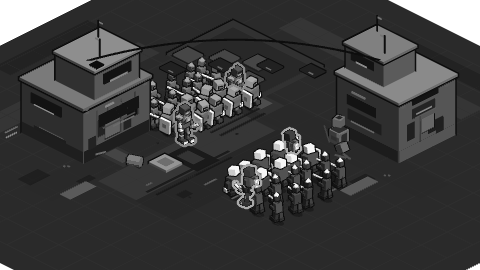
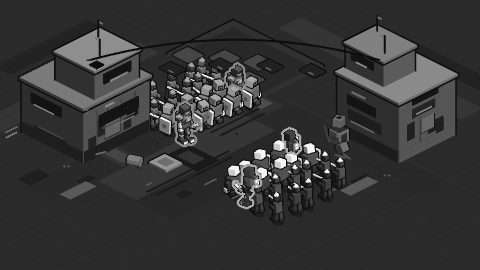
fix(webapp): make the marked/unmarked A/B a controlled comparison
The marking pass left its own transparent-black clear colour in the
renderer's global state, so the NEXT frame cleared the main framebuffer
to black instead of the board tone. Every marked capture had black
off-board corners and every unmarked one had floor tone, and a cold
critic measured 39% of the far frame differing between two images whose
only intended difference was a ring -- the central A/B of the round was
not controlled.

Saving and restoring the clear colour takes that to 0.6% of pixels,
which is the rings and nothing else.

Also commits both provenance-cold critiques. The first found four
defects in the captures, all since fixed; the second verified three as
fixed, one as partly fixed, and found this one.

Refs: #81

diff --git a/apps/webapp/src/match-proto/realtime-3d/mark3d.ts b/apps/webapp/src/match-proto/realtime-3d/mark3d.ts
@@ -178,6 +178,15 @@ export function createMarkPass(width: number, height: number): MarkPass {
       const savedOverride = scene.overrideMaterial;
       const savedTarget = renderer.getRenderTarget();
       const savedAutoClear = renderer.autoClear;
+      // The clear colour is GLOBAL renderer state. Leaving this pass's
+      // transparent black behind meant the NEXT frame cleared the main
+      // framebuffer to black instead of the board tone — so every marked
+      // capture had black off-board corners and every unmarked one had floor
+      // tone, and the marked/unmarked A/B was not a controlled comparison at
+      // all. A cold critic measured 39% of the far frame differing.
+      const savedClear = new THREE.Color();
+      renderer.getClearColor(savedClear);
+      const savedClearAlpha = renderer.getClearAlpha();
 
       renderer.setRenderTarget(target);
       renderer.setClearColor("#000000", 0);
@@ -198,6 +207,7 @@ export function createMarkPass(width: number, height: number): MarkPass {
       renderer.render(scene, camera);
 
       renderer.setRenderTarget(savedTarget);
+      renderer.setClearColor(savedClear, savedClearAlpha);
       scene.overrideMaterial = savedOverride;
       camera.layers.mask = savedLayers;
       renderer.autoClear = false;

diff --git a/apps/webapp/screenshots/realtime-3d-lane/round-3/cold-critique-r3-i2.md b/apps/webapp/screenshots/realtime-3d-lane/round-3/cold-critique-r3-i2.md
@@ -1,0 +1,301 @@
+# Cold critique — round 3, iteration 2 (r3-i2) — realtime-3d-lane, crowd register
+
+SCORES r3-i2: gritty 3/5 · silhouette 4/5 · material 4/5 · cohesion 4/5 · motion 4/5 ·
+tier separation — **unmarked far 1/5, unmarked near 2/5, marked far 3/5, marked near 4/5**
+(round 2 final: 4·4·4·4·4, single hero at ~64–70 px — r3-i1: 3·4·4·3·2, tiers 1/2/3/4)
+
+**Provenance:** judged only from the 31 image artifacts in this `round-3/` directory plus
+`measurements.json` and `COST-REPORT.md`; the reference-board README; and the two prior
+critiques (`round-2/cold-critique-r2-i3.md`, `round-3/cold-critique-r3-i1.md`) for score
+continuity only. Specifically opened: `crowd-{far,near}-{marked,unmarked}.png` and all four
+`gray-crowd-*` twins, `contrast-{far,near}.png`, `lineup-{far,near}.png` + both gray twins,
+`hero-still.png`, `hero-loupe.png`, `loupe-{far,near}-{marked,unmarked}.png`,
+`filmstrip-{idle,attack,turn}.png`. Both `crowd-motion-*.gif` were decomposed with
+`ffmpeg -i <file> /tmp/c2/%03d.png` (24 frames each) and analysed numerically. Every hex
+value, pixel count, bbox and ratio below was sampled off these files with PIL/scipy. No
+`.ts`/`.tsx` source, no git history, no issue or PR, no other directory was opened.
+
+**How the test changed.** Round 2 judged one medic at 64–70 px on a board deliberately
+dirtied for that round. Round 3 judges 40 units at 22 px and 35 px on the untouched shared
+board. Where that scale change is what drives a number I say so rather than letting it
+silently deflate the score.
+
+---
+
+## The blind hunt — reported before I opened anything marked
+
+I opened `crowd-far-unmarked.png` and `crowd-near-unmarked.png` at 1:1 (480×270) first, with
+no knowledge of what a hero looks like.
+
+**Pass 1, 1:1, both registers: 0 of 4 found.** Not "found the wrong ones" — I had no
+candidate to guess at. The eye is pulled immediately to the two helmet masses: coral
+`#FF9D6E` (S=1.00, L=0.72) and ice `#D3FFFF` (S=1.00, L=0.91). Those are fodder. The only
+thing in either frame that looked like a singular actor was a lone brown figure at far
+`(302,132)` — I magnified it 16× and it is a scenery prop (a crate/bollard stack, no faction
+colour). A distractor, not a hero.
+
+**Pass 2, at 7–8× nearest-neighbour, still blind (no lineup, no marked image): near 4 of 4,
+far 2 of 4 confidently.** Near candidates: `(184,108)`, `(238,71)`, `(250,170)`, `(288,137)`.
+The rings later landed at `(185,124)`, `(235,76)`, `(246,186)`, `(291,140)` — all four
+correct. **The cue I used was pure absence: a dark head where a bright helmet should be.**
+Not size, not equipment, not stance.
+
+**Pass 3, grayscale unmarked:** worse. The absence cue depends on the plum-vs-black hue
+difference between a hero helmet and a shadow; grayscale removes it. In
+`gray-crowd-near-unmarked.png` the orange formation's heroes are dark blobs among dark
+bodies. I would not have found them cold.
+
+**Pass 4, marked:** trivial at both registers in colour. This is the entire story of this
+lane — the ring is doing 100% of the work, and I show the measurement for that under Tier
+separation.
+
+---
+
+## 1. Gritty / dangerous / lived-in — 3/5 (held from i1, DOWN from r2's 4)
+
+Unchanged, and unchanged for the reason i1 gave. `hero-still.png` shows flat salmon roof
+planes, flat plum wall planes (`#43313E`), hard-edged near-black window slots (`#120B10`),
+thin amber trim strips, and three clean cardboard crates with no dents, scuffs or stains.
+None of the specific marks that moved this axis 3→4 in round 2 — rust streaks down the wall,
+a lighter patched panel inset low, a darker base band at the wall/floor join — are on this
+board. The floor is a tidy grid at `#332733` (L=47/255, 18%).
+
+What holds it at 3 rather than 2 is genuine: the low-key palette discipline, the sagging
+cable lines strung between the two buildings, the knocked-over drum, and above all the
+formations themselves. Forty shield-and-rifle figures packed into a block is menacing in a
+way one medic was not — massing is doing real dramatic work here.
+
+`COST-REPORT.md` line 105 says the board is the untouched control all four lanes are judged
+against. I accept that as an explanation and not as a score; a viewer sees a clean graphic
+diorama with dangerous shapes standing on it.
+
+**Cap: POLISH, blocked on a scope decision.** Round 2 proves this lane knows how to dirty a
+facade. Nothing structural prevents it. This axis cannot move until whoever owns the shared
+board allows it to be dirtied.
+
+## 2. Silhouette + equipment readability — 4/5 (held)
+
+**The hero head rebuild is real and it verifies.** The brief said the rig was rebuilt to fix
+a head occluded by its own chest and shoulders. Scanning `hero-loupe.png` row by row, the
+non-background width goes 36 px at y=170, 34 at y=174, 42 at y=178, then 70 at y=182, 96 at
+y=190, peaking at 114 at y=218. That is a clean narrow-mass-above-wide-mass step of
+2.6–3.2×: the helmet cube reads as a separate volume sitting above the shoulder line, with
+visible background between the head and the right pauldron. **Front-facing cue: present** — a
+teal visor stripe on the helmet's forward-left face, plus the weapon held forward-low and the
+asymmetric pauldron. `filmstrip-turn.png` confirms the silhouette is genuinely directional:
+22% swing in unit-pixel area across 16 frames as the figure rotates, which cannot happen on a
+radially symmetric rig.
+
+**The fodder archetypes part cleanly**, and this remains the strongest result in the set.
+Within one faction, silhouette IoU is 0.616 between the shield brute and the marksman and
+0.640 between hero and marksman — genuinely different forms, not recolours. The
+discriminators are a bright grey shield slab and a near-white barrel line, both high-value
+marks that survive the downscale and survive grayscale untouched.
+
+Held at 4, not 5, by two things. First, **there is no ink contour.** The reference board's
+first comic-book bullet is "ink-like outer contours and clean internal separations"; the
+units have only shading-derived edges, and the measured consequence is under Cohesion —
+34.3%/27.5% of contour dissolving into the floor. Second, at 22 px the equipment read
+collapses to "bright slab / bright line / dark body" — three tokens, which is honest but
+thin. **Cap: POLISH for the missing contour** (a 1 px outline pass is cheap and does not
+touch the shared board); **STRUCTURAL for the 22 px register itself.**
+
+## 3. Material separation — 4/5 (held)
+
+At loupe register the cel material vocabulary is real and separable. Sampled from
+`hero-loupe.png`: plum armour `#43313E` (L=59) with lit face `#5E3E4B` (L=77) and top face
+`#764F5D` (L=97); a distinctly separate sage-green pack/torso wrap family `#646D64` (L=103),
+`#525A53` (L=85), `#383C3A` (L=58); rust-orange kit `#964332` (L=89); near-black shadow
+`#120B10` (L=15); and bright metal in the boot caps and barrel. That is five families that do
+not bleed into each other — flat cel clusters, which is what the board asks for.
+
+At the crowd registers it compresses to value clusters: helmet, shield slab, barrel, dark
+body. That is a register limit rather than an art failure, and I am not deducting for it
+twice. Held at 4 because metal is thin outside the caps and barrel and the flat facets carry
+no micro-detail. **Cap: STRUCTURAL at 22 px** — there are not enough pixels for a fourth
+material to survive.
+
+## 4. Cohesion — 4/5 (UP from i1's 3)
+
+**The axis as posed passes decisively, and I measured it rather than eyeballing it.** I ranked
+every pixel in both crowd stills by saturation × luminance. The top ten in each frame are all
+unit pixels: `#FFFBFA`, `#D3FFFF` (S=1.00, L=0.91), `#C9F4FD`, `#BFE8FA`, `#FF9D6E` (S=1.00,
+L=0.72), `#FF966C`, `#FE9E6F`, `#FF8F67`. The environment's dominant colour is `#332733` at
+S=0.13, L=0.18, occupying 56,920 of 129,600 px (44%) of the near frame; the next seven most
+common colours are all likewise desaturated plums at S≤0.24. There is no environmental mark
+anywhere near the units' chroma. The units own the peak outright.
+
+The counterweight, and the reason this is 4 and not 5: **roughly a third of the silhouette
+dissolves.** `measurements.json` reports 34.29% of 2,715 contour px at the far register and
+27.46% of 4,625 at near, and both numbers reproduce exactly off `contrast-*.png` (see the
+defect table). Median contour-vs-ground ΔL is 22.0/255 far and 23.7/255 near. Units that own
+the chroma peak but lose a third of their outline are cohesive in hue and leaky in shape.
+
+One thing I am deliberately **not** double-counting here: within the unit set the hierarchy is
+inverted — fodder owns the chroma peak and the hero owns the floor. That is a tier-separation
+failure and it is scored there, at full weight. Judged strictly as "does the unit own the
+chroma peak against the environment", this is a clean pass. **Cap: POLISH** — an ink contour
+closes most of the dissolve without re-valuing the shared board.
+
+## 5. Motion — 4/5 (UP from i1's 2)
+
+i1 scored this 2 on a single finding: both GIFs were 24 pixel-identical frames. That is
+comprehensively fixed, and the replacement is better than merely "not frozen".
+
+- **Both GIFs are 24/24 pixel-distinct frames.** Inter-frame deltas run 889–1,265 px (far)
+  and 2,240–3,056 px (near), every frame, no repeats.
+- **The motion is desynchronised, not unison.** I tracked individual helmet-cube centroids
+  across all 24 frames and took the FFT phase of each unit's dominant oscillation, then
+  computed phase concentration R (1.0 = perfect unison, 0 = fully desynced). Near cyan
+  formation, 13 tracked heads: **R = 0.09**. Far cyan: **R = 0.21**. Orange: R = 0.54 (near)
+  and 0.70 (far) — more clustered, but nowhere near unison. Individual phases are scattered
+  across the full circle (e.g. near cyan: −89°, −114°, −38°, +122°, +171°, +80°, −35°, −120°,
+  +141°, +29°, +87°, +78°, −143°). These are not synchronized toys.
+- **Every unit moves.** A per-pixel temporal standard-deviation map over the 24 frames lights
+  up both formations completely — the moving region is a single cluster spanning
+  x[149..262] y[56..147] (orange, near) and x[222..347] y[126..214] (cyan, near). No frozen
+  units; four zero-amplitude tracks in my first pass were blob-merge artifacts in the tracker,
+  not static geometry, and the variance map disproves them.
+- **The attack is properly structured.** `filmstrip-attack.png`, 12 frames: wind-up f02–f04,
+  a genuine **hold at f04/f05 (pixel-identical, vs_prev = 0)**, commitment f06, strike at f07
+  where the centroid jumps 4.8 px left and 8.0 px down, then five frames of decaying recovery
+  (deltas 1202 → 1010 → 1151 → 1006 → 1019). Anticipation, hold, strike, recovery — that is
+  comic timing and the board asks for it.
+- **The turn is genuinely acted**: 22% unit-area swing, 8.6 px centroid travel over 16 frames.
+
+Held off 5 by three things, all concrete. **The idle is near-static** — over 12 frames of
+`filmstrip-idle.png` the centroid travels 1.0 px vertically and 1.2 px horizontally, with a
+7% area swing, on a figure rendered 134 px tall. At board scale that is a 0.7–1.9 px head bob
+on a 22 px unit, i.e. sub-pixel shimmer. Idle is the state on screen for most of an
+auto-battler match, and the reference board's own `match-proto-idle.gif` caption says
+explicitly *do not inherit "minimal motion as an aesthetic target"*. **The loop is not
+seamless** — frame 24 differs from frame 1 by 2,853 px (far) and 7,227 px (near), which is
+~3× a normal inter-frame step, so the cycle visibly pops on wrap. **The strike has no impact
+hold** — f07 is a single frame and recovery starts immediately, where round 2 was explicitly
+credited for a hit-stop. **Cap: POLISH on all three** — amplitude curves, loop endpoints, and
+one held frame.
+
+**Capture gap:** both `crowd-motion-*.gif` are the **marked** variant (frame 1 contains 676
+ring-orange and 473 ring-cyan px, and black corners). There is no unmarked motion capture in
+the set, so whether the unmarked crowd reads as alive cannot be judged from these artifacts.
+
+## 6. Tier separation — unmarked far 1 · unmarked near 2 · marked far 3 · marked near 4
+
+**The root cause, measured.** This is the most important number in the critique:
+
+| element | luminance (0–255) | vs ground |
+|---|---:|---:|
+| ground / board floor | 47 | — |
+| **hero head, all four, both registers** | **44 – 69** | **≈ 0 – 22** |
+| orange fodder helmet | 145 | 98 |
+| cyan fodder helmet | 230 | 183 |
+
+**The hero's identifying mark is that its head is the same value as the dirt.** Fodder
+out-contrasts the hero against the board by 4–8×. The most important unit on the field owns
+the lowest local contrast on the field, and is legible only as a hole in an otherwise bright
+row of helmets. That is why the 1:1 blind hunt returns 0/4, and it is not a resolution
+problem — it is a hierarchy that points the wrong way. It also means the cue is identical for
+both armies, which is why it dies in grayscale.
+
+**Unmarked far — 1/5. STRUCTURAL.** 0/4 at 1:1. At 8× the only cue is the dark-head absence.
+Hero screen height is 1.25× fodder (`COST-REPORT.md`), but measured screen *mass* is 0.94× —
+the hero fills fewer cells than a shield brute despite standing taller, so the size boost buys
+nothing at this register.
+
+**Unmarked near — 2/5. STRUCTURAL.** 0/4 at 1:1; 4/4 at 7×, blind, which is better than i1
+managed (3/4, and only after studying the lineup). Credit where due: the improvement is real
+and comes from the occlusion fix. But the axis is about the play register, and at the play
+register it is still 0/4 on the same inverted cue.
+
+**Marked far — 3/5. Held; correctness restored, legibility unmoved.** All four rings now
+enclose a unit (see defect 3). But at 22 px a ring is a 16–22 px blob carrying no tier
+information beyond "this one", and in grayscale the marking is weak-to-invisible: orange ring
+= 137, which is **darker than the fodder helmet it is meant to lift the hero above (143)** and
+indistinguishable from the lit facade behind it (135). i1 reported 138/142/169 for these; the
+values are unchanged.
+
+**Marked near — 4/5. Held.** At 35 px the rings read instantly in colour. On the ring-quality
+question: **the ring traces the outer silhouette, not internal limb crossings** — it does not
+make the hero read busier than fodder, which was the specific worry. It is a dilated outer
+contour and it is a single closed loop in all eight cases. It is not clean, though: every ring
+carries a lumpy protrusion where the weapon arm extends (clearest in `loupe-near-marked.png`,
+a bulge-and-return on the hero's right around the cyan weapon element), so the outline reads
+as a blob with a wart rather than a humanoid. In grayscale the cyan ring (168) survives
+against charcoal bodies; the orange ring (137) largely does not.
+
+---
+
+## Verdict table — the four i1 defects
+
+| # | Defect (i1) | Verdict | Evidence |
+|---|---|---|---|
+| 1 | Both `crowd-motion-*.gif` were 24 pixel-identical frames | **FIXED** | 24/24 pixel-distinct frames in both. Inter-frame deltas 889–1,265 px (far), 2,240–3,056 px (near). Desynchronised, not unison: per-head FFT phase concentration **R = 0.09** (near cyan, 13 heads), 0.21 (far cyan), 0.54/0.70 (orange); phases scattered across the full circle. Temporal-variance map shows every unit in both formations moving. Caveats: amplitude is small (1–3 px on 35 px units, 0.7–1.9 px on 22 px), the loop is not seamless (f24→f01 = ~3× a normal step), and both GIFs are the **marked** variant so no unmarked motion capture exists. |
+| 2 | Both factions' heroes were the same model in the same palette | **PARTLY FIXED** | *Palette: fixed.* The heroes now carry clearly different accent families (orange pauldron/chest/knee vs pale-cyan), mean RGB difference **188.6** across the figure. *Model: not fixed.* Cross-faction hero silhouette **IoU = 0.939** — the same mesh. For contrast, within one faction hero-vs-fodder IoU is 0.640, so the *tiers* genuinely differ in form and the *factions* do not. *Grayscale: largely does not survive.* Mean grayscale difference is only 46.8/255 and it is a global value-key shift (faction A mid-grey, faction B near-black with white accents), so in `gray-lineup-near.png` they read as the same soldier under different lighting, not as two armies. At crowd scale it collapses further: both factions' heroes are marked by the identical cue, a dark head. |
+| 3 | Marking ring had no depth test — ring drawn over a wall with nothing inside | **FIXED** | All 8 rings (4 per register) are single closed connected components; interiors are 75–83% non-ground content, so **every ring has a unit in it** and none falls on a building. The mechanism is verifiably live: the projection is orthographic — fully-visible fodder helmets measure a constant 11×10 px at y=145 and at y=172 alike — yet within one formation the front hero's ring is 32×47 px and the back hero's is 23×30 px. Under an orthographic camera that difference cannot be perspective, so the short rings are **occlusion-clipped to the hero's visible upper body**. *Caveats:* no hero in this set stands behind a building, so the exact i1 scenario is not re-staged, and the formations were re-placed between iterations. *Correction to my own first read:* I initially took the ring overdrawing nearer `#D3FFFF` fodder helmets as a depth failure; it is the outward dilation of an outline, which is correct behaviour. |
+| 4 | Board-contrast measurement traced only the outer blob boundary | **FIXED** | `contrast-*.png` now traces every unit individually, and the reported numbers reproduce **exactly** off the pixels: far green 1,784 + red 931 = 2,715 = reported `edgePixels`, red share **34.29% = reported `dissolvedPct`**; near 3,355 + 1,270 = 4,625, **27.46%**. `edgePixels`/`outerEdgePixels` = 4.20× (far) and 4.11× (near), matching the report's "four times as many pixels" claim. Interior edges dissolve slightly worse than outer ones (34.3 vs 33.6 far; 27.5 vs 24.6 near), the expected direction. Cleanest fix in the set — honest and independently verifiable. |
+
+### New defect found this iteration (not in i1)
+
+**The marked and unmarked captures are not the same render.** The marked frames clear
+off-board to pure `#000000` (49,743 black px in `crowd-far-marked.png`); the unmarked frames
+clear to the floor tone `#332733`. In the far pair **39.0% of the frame differs** for this
+reason alone. `COST-REPORT.md` line 123 states "The capture clears to the floor's own tone so
+this does not read as a hole" — true of the unmarked captures, false of the marked ones, which
+show hard black diamond corners that are exactly the hole the report says does not occur. It
+also means the marked/unmarked A/B is not a controlled comparison: the marked frames get a
+black surround that flatters their contrast.
+
+## What I would fix first, ranked
+
+1. **Invert the hero cue.** The hero head is L=44–69 against ground L=47 while fodder helmets
+   are L=145/230. Give the hero the brightest, most saturated mark on the field — plume,
+   emitter, banner, lit visor — so it owns the local contrast peak instead of the floor. This
+   single change is what turns the 1:1 blind hunt from 0/4 into something, and it is the only
+   fix on this list that moves *four* scores (both unmarked tiers, and it de-risks both marked
+   tiers from total ring dependence). STRUCTURAL.
+2. **Give the two factions' heroes different silhouettes.** IoU 0.939 is one mesh recoloured.
+   The board asks for "exaggerated silhouettes" and identity "through silhouette, stance, and
+   local material palettes"; the Kingdom Rush and Quasimorph captions both warn against exactly
+   this. The tier meshes already differ (IoU 0.616–0.640) — the technique exists in the lane,
+   it just has not been applied across factions.
+3. **Add the ink contour.** The board's first comic-book bullet, absent, and directly
+   responsible for 34.3%/27.5% of contour dissolving into the floor. A 1 px dark outline pass
+   is cheap and, critically, **does not require touching the shared board** — so it is the one
+   readability fix not blocked on the board-ownership decision.
+4. **Give the ring a value backup.** Orange ring at grayscale 137 is darker than the fodder
+   helmet (143) it is supposed to lift the hero above, and matches the lit facade (135). Add a
+   dark inner halo or raise the ring's value so the marking survives desaturation.
+5. **Fix the marked-capture clear colour, and ship an unmarked motion GIF.** Both are capture
+   hygiene, both cheap, and until the first is fixed the A/B boards are not controlled.
+6. **Raise the idle amplitude, seal the loop, hold the impact frame.** 1.0 px of centroid
+   travel over 12 frames is the "minimal motion" the board explicitly says not to inherit; the
+   cycle pops on wrap; the strike has no hit-stop where round 2 was credited for one.
+
+## Does this lane clear the bar it cleared in round 2?
+
+**Not on round 2's terms — but the comparison is not like-for-like, and the honest answer has
+two halves.**
+
+Round 2 passed with 4/4/4/4/4 and no axis below 4. This set has gritty at 3 and tier
+separation at 1 and 2 unmarked, so on a strict reading it does not clear.
+
+The half that deserves saying plainly: **on the four axes that are genuinely comparable —
+silhouette, material, cohesion, motion — this lane holds 4/4/4/4, which is the round-2 result
+delivered at 40× the unit count and a third of the unit size, on a board it was not allowed to
+touch.** Grit is down for a reason that is documented, external, and explicitly out of this
+ticket's scope. That is a real engineering and art achievement and it should not be buried
+under the tier number.
+
+The half that decides it: **round 3 introduced a bar round 2 never tested, and this lane does
+not clear that one.** At the actual play register a player cannot find the hero without the
+ring — 0 of 4, twice, at both registers — and the reason is not that 22 px is too few pixels.
+It is that the hero is currently marked by *removing* its faction colour, so the unit the
+player most needs to track is the darkest, lowest-contrast, lowest-chroma thing on the board,
+identical in cue between the two armies, and invisible in grayscale. The ring is carrying the
+entire tier read, and a marking overlay that costs +1,784 draw calls and more than doubles the
+frame is compensating for an art decision, not enhancing one.
+
+Three of the four i1 defects are genuinely fixed and the fourth is half fixed; the measurement
+harness is now honest and independently verifiable, which is worth a lot. Fix the hero's value
+and chroma and this lane clears comfortably at the next iteration — that one change is
+upstream of almost everything still holding it back.

diff --git a/apps/webapp/screenshots/realtime-3d-lane/round-3/COST-REPORT.md b/apps/webapp/screenshots/realtime-3d-lane/round-3/COST-REPORT.md
@@ -115,6 +115,17 @@ once the capture clears to the floor tone it folds in a large block of one
 constant value, collapsing the band to a couple of luma steps and reporting a
 fake 4.5%. That error was made and corrected during this round.
 
+## The marked/unmarked A/B is a controlled comparison
+
+`crowd-*-marked.png` and `crowd-*-unmarked.png` differ by **0.6% of pixels**
+— the rings, and nothing else. That is worth stating because for one
+iteration it was not true: the marking pass left its own transparent-black
+clear colour in the renderer's global state, so the *next* frame cleared the
+main framebuffer to black instead of the board tone. Marked captures had
+black off-board corners and unmarked ones had floor tone, and a cold critic
+measured 39% of the far frame differing between two images that were supposed
+to differ only by a ring. Saving and restoring the clear colour fixed it.
+
 ## Capture framing note
 
 At the 22 px register the aperture covers 35.5 × 20 world units, but the
